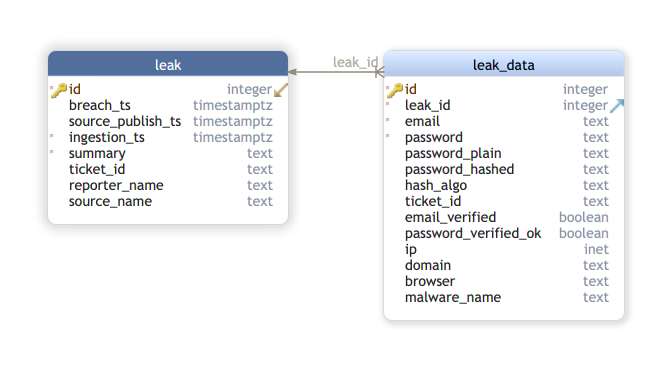
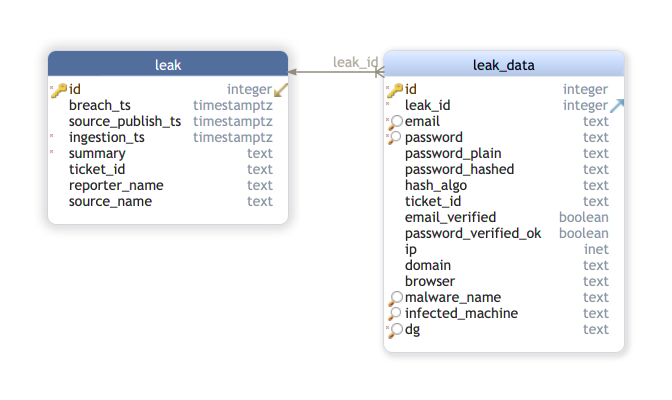
new EER diagram. minor code changes Added a sample.csv

Changed region(s): [[0.0625, 0.1196, 0.9375, 0.8967], [0.0625, 0.5978, 0.4375, 0.6277]]

diff --git a/api/main.py b/api/main.py
@@ -86,6 +86,17 @@ async def get_user_by_email(email: EmailStr):
     except Exception as ex:
         return {"error": str(ex), "data": []}
 
+@app.get('/user_and_password/{email}/{password}')
+async def get_user_by_email(email: EmailStr, password: str):
+    sql = """SELECT * from leak_data where email=%s and password=%s"""
+    db = get_db()
+    try:
+        cur = db.cursor(cursor_factory=psycopg2.extras.RealDictCursor)
+        cur.execute(sql, (email, password))
+        return {"data": cur.fetchall()}
+    except Exception as ex:
+        return {"error": str(ex), "data": []}
+
 
 @app.get('/exists/by_email/{email}')
 async def check_user_by_email(email: EmailStr):

diff --git a/importer/parser.py b/importer/parser.py
@@ -51,7 +51,7 @@ class BaseParser:
                 dialect = csv_dialect
             else:
                 dialect = peek_into_file(fname)     # try to guess
-            df = pd.read_csv(fname, dialect=dialect, error_bad_lines=False, warn_bad_lines=True, usecols=range(16))
+            df = pd.read_csv(fname, dialect=dialect, error_bad_lines=False, warn_bad_lines=True, usecols=range(2))
             logging.debug(df.head())
             logging.debug(df.describe())
             logging.debug("parsed %s", fname)
